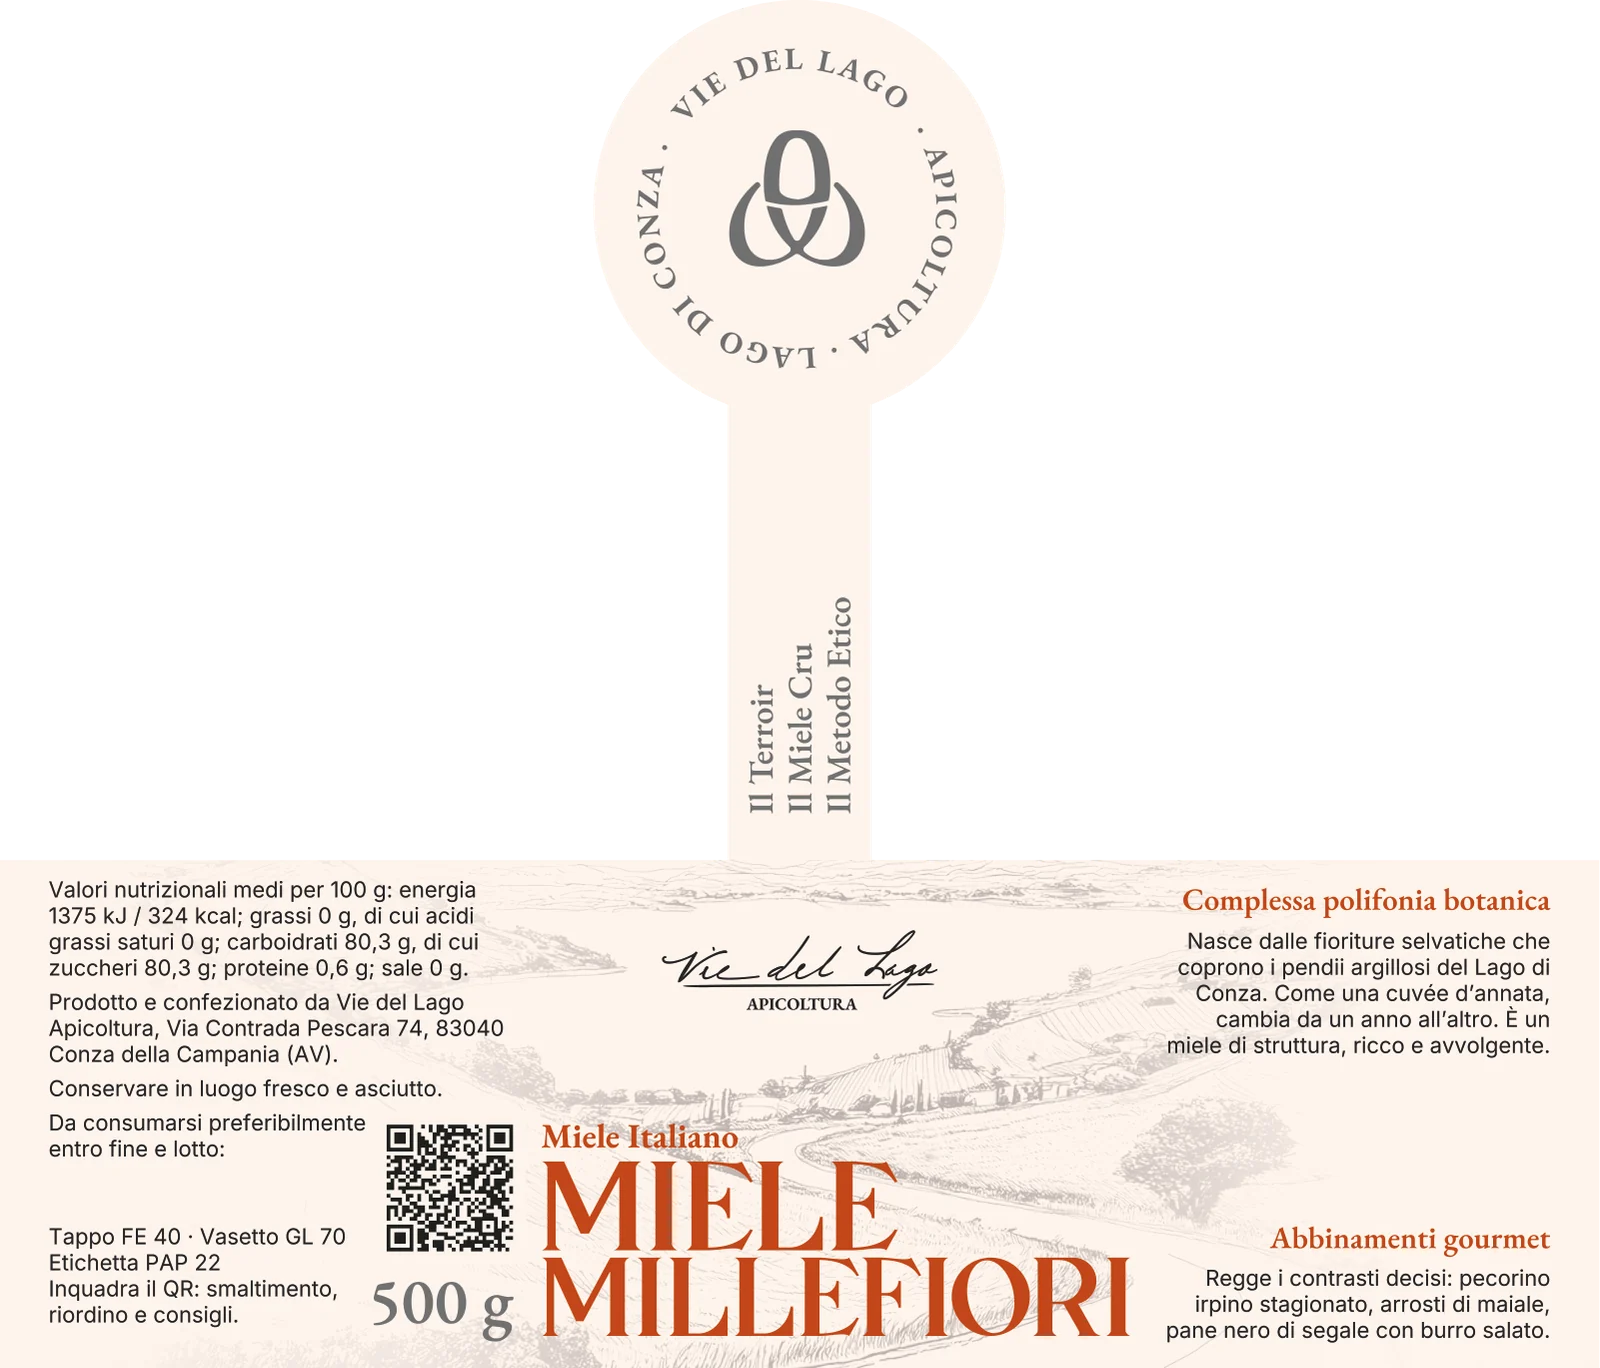
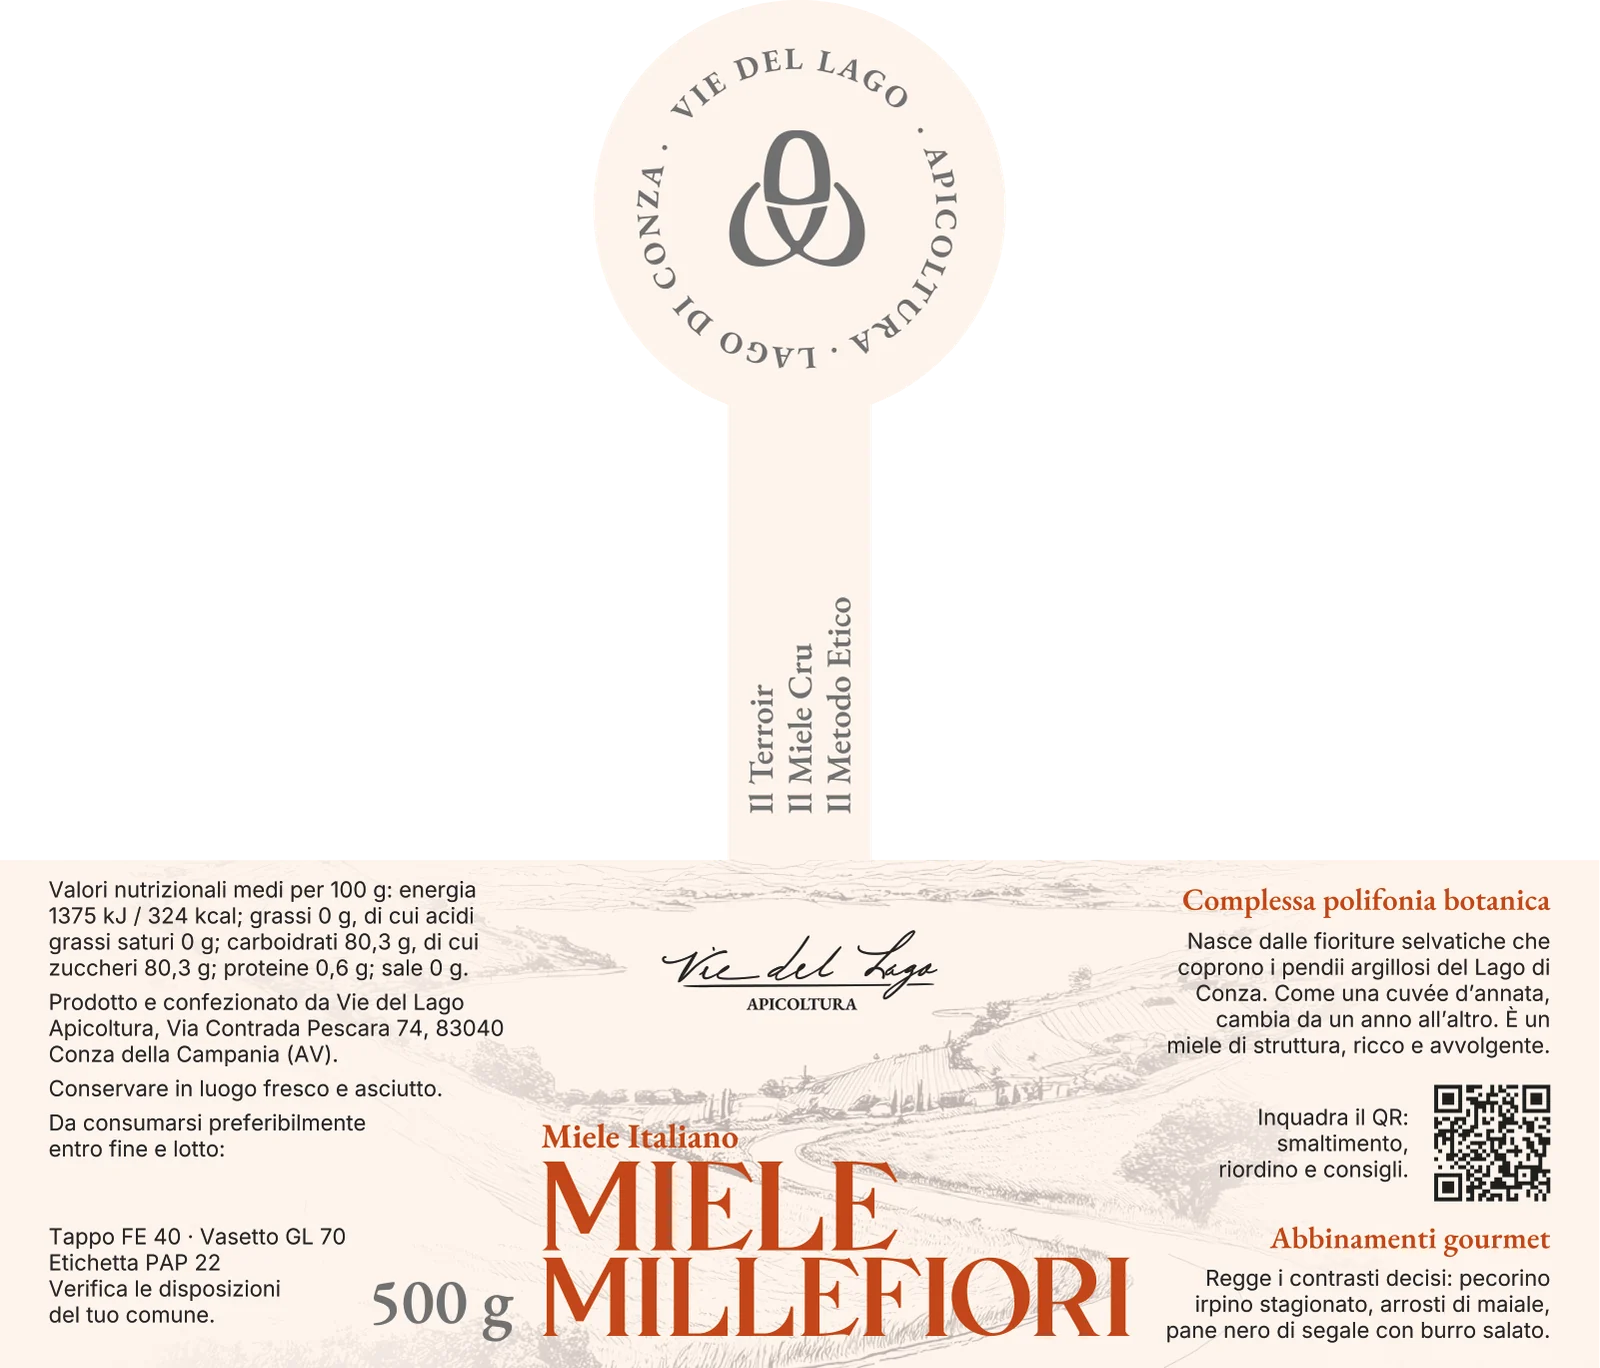
Etichette 2026 con il QR sul retro: foto dei vasetti e pagina Le etichette
Claude-Session: https://claude.ai/code/session_0158YTuacGQRhmcvaVHapShK

Changed region(s): [[0.7812, 0.7675, 0.9688, 0.8904], [0.2188, 0.7982, 0.3438, 0.9211], [0.0312, 0.9211, 0.2188, 0.9825]]

diff --git a/en/etichette.html b/en/etichette.html
@@ -194,7 +194,7 @@
         </li>
         <li class="passo" data-rivela>
           <span class="passo__num" aria-hidden="true">6</span>
-          <div><h3>The QR code</h3><p>Next to the net weight there is a QR code. It opens a page you can only reach from the jar, which explains how to dispose of the packaging.</p></div>
+          <div><h3>The QR code</h3><p>It sits on the back, in the right-hand column between the description and the pairings. It opens a page you can only reach from the jar: how to dispose of the packaging, how to reorder and a few tips.</p></div>
         </li>
         </ol>
       </div>

diff --git a/etichette.html b/etichette.html
@@ -170,7 +170,7 @@
         </li>
         <li class="passo" data-rivela>
           <span class="passo__num" aria-hidden="true">6</span>
-          <div><h3>Il codice QR</h3><p>Accanto al formato c'è un QR: apre una pagina che si raggiunge solo dal vasetto e spiega come smaltire la confezione.</p></div>
+          <div><h3>Il codice QR</h3><p>Sta sul retro, nella colonna di destra tra la descrizione e gli abbinamenti. Apre una pagina che si raggiunge solo dal vasetto: come smaltire la confezione, come riordinare e qualche consiglio.</p></div>
         </li>
         </ol>
       </div>
